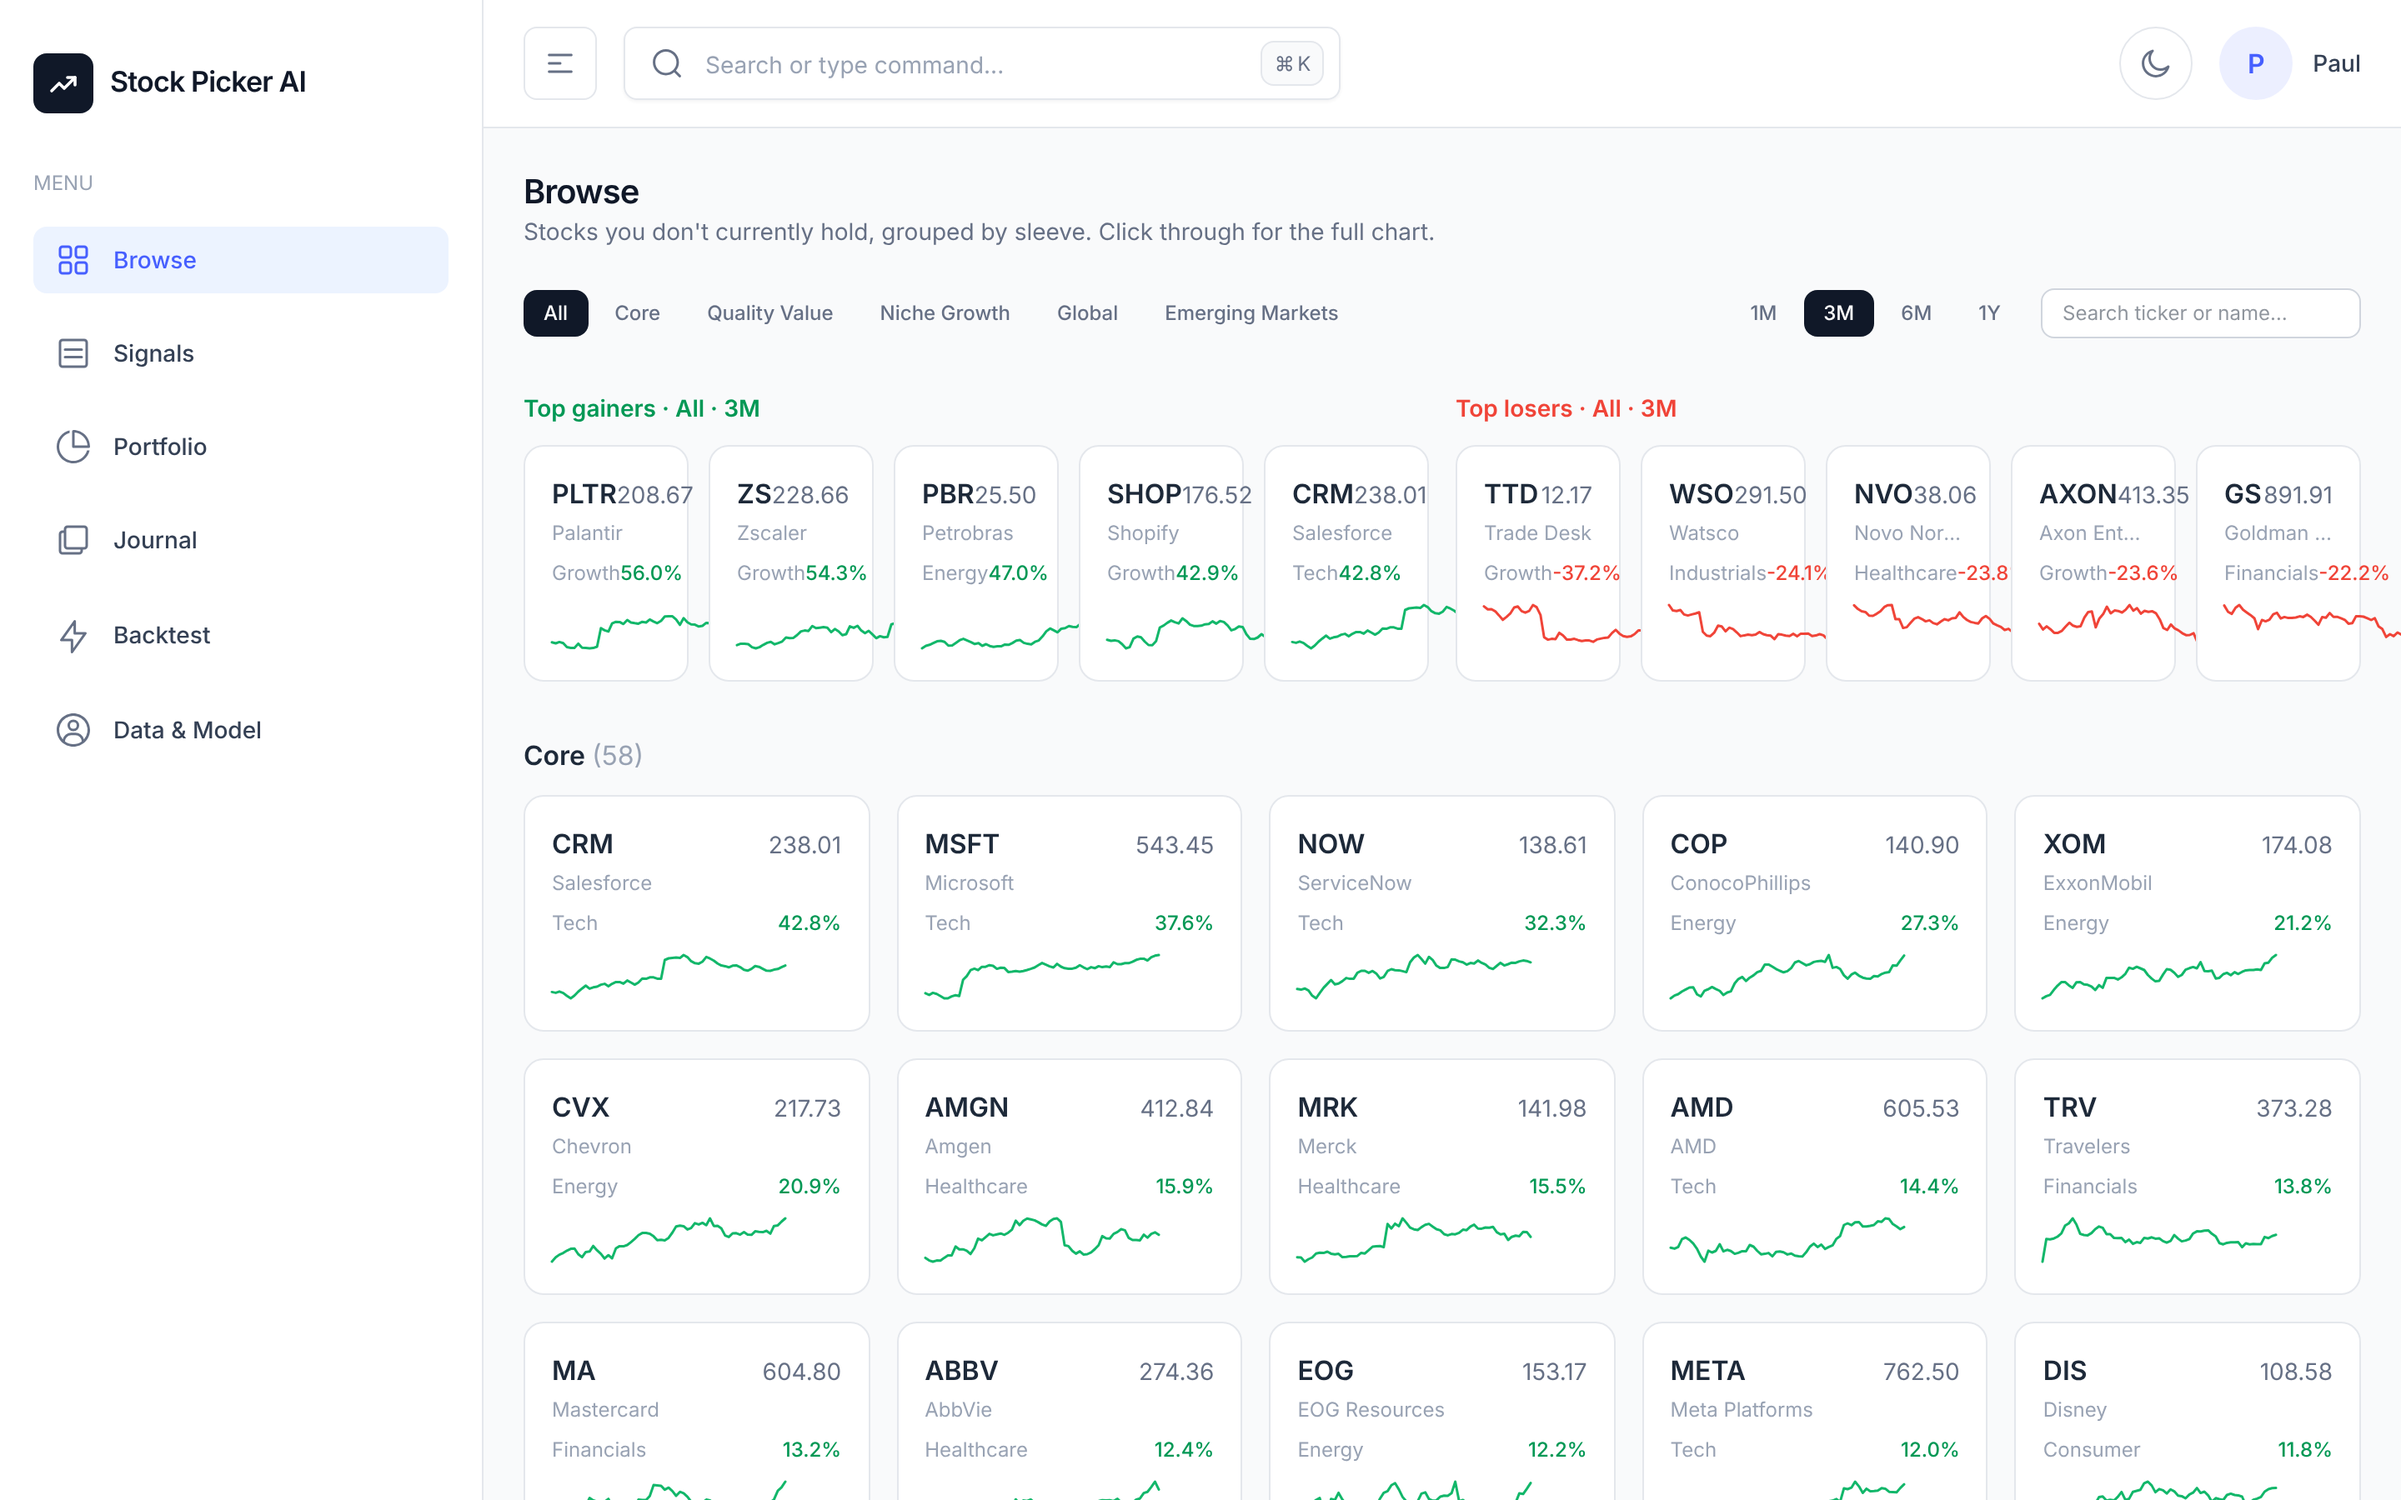
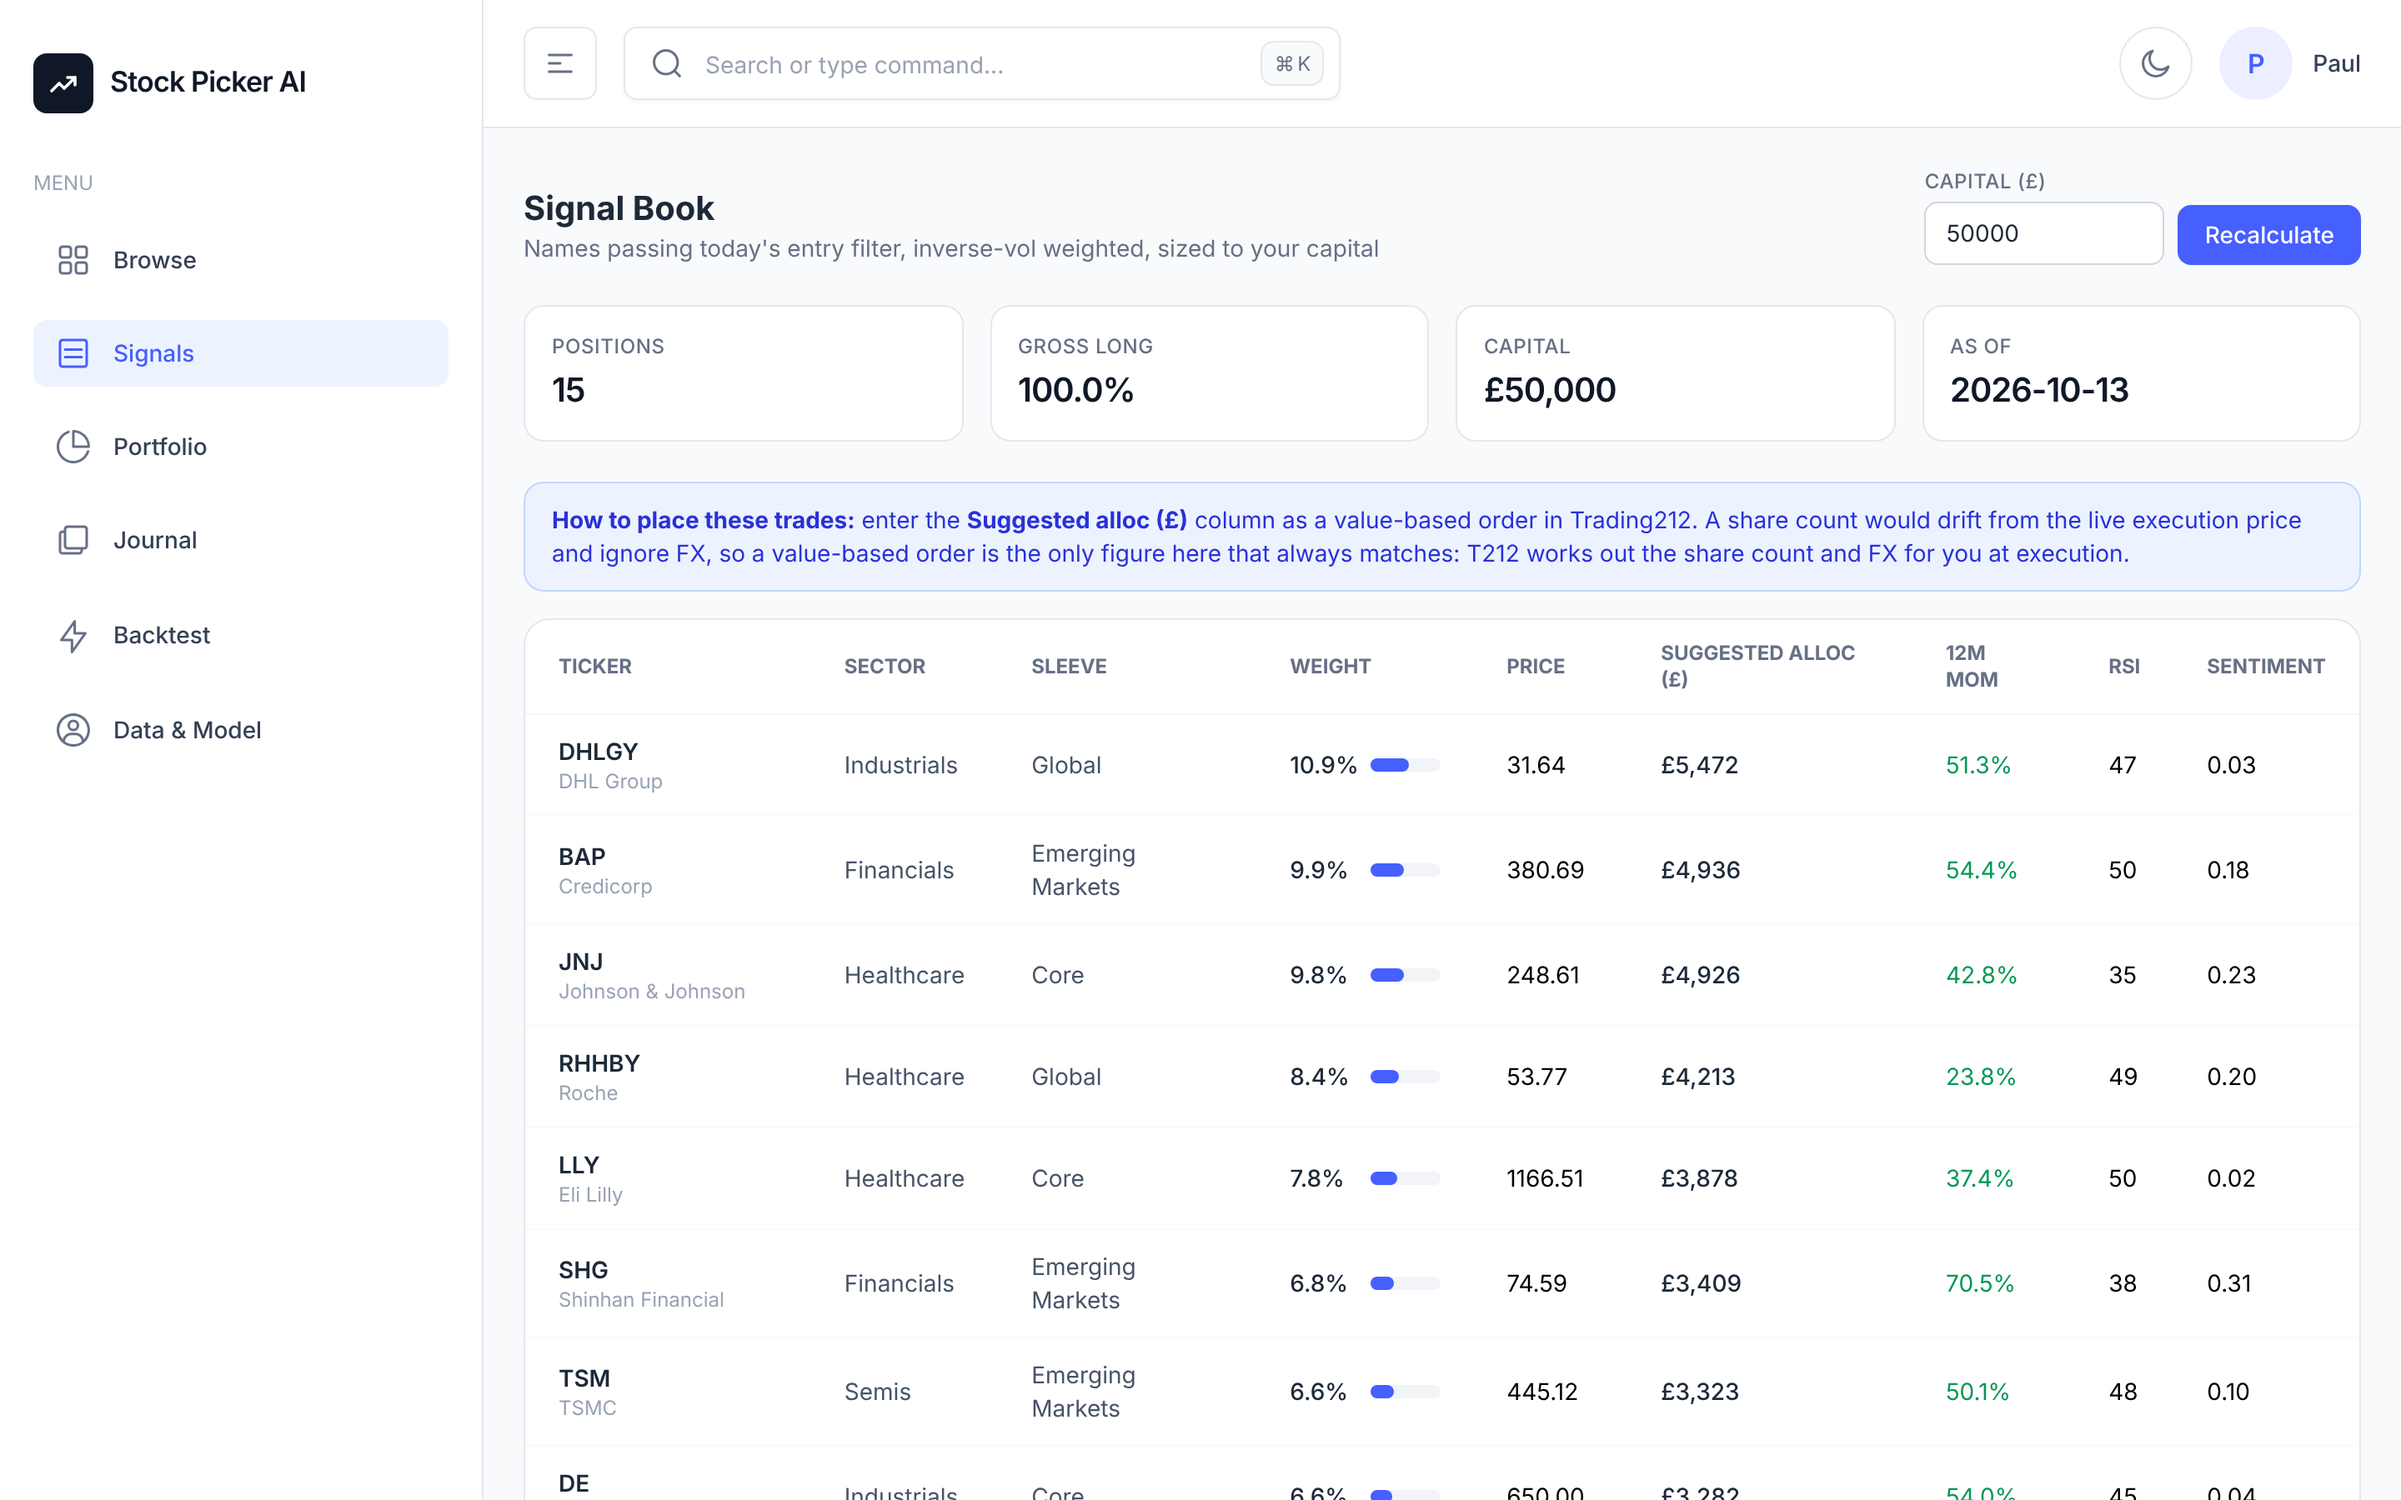
Use the Signals page as the README screenshot
Browse mostly shows prices and 3-month charts, which could be any stock
app. Signals shows what this project actually does: the stocks passing the
entry rule, their inverse-vol weights and the momentum, RSI and sentiment
behind each pick. Real prices as of 2026-10-13.

Claude-Session: https://claude.ai/code/session_01XyA21oPQqhWH4BwdBSBncw

diff --git a/README.md b/README.md
@@ -4,7 +4,7 @@ A research and backtesting tool that finds stocks pulling back inside a strong
 uptrend, scores them 1 to 10, and builds a monthly portfolio from the best.
 It covers 156 global stocks and runs entirely on free data.
 
-![The Browse page: top gainers and losers, then every stock in the universe with its 3-month trend](docs/screenshot.png)
+![The Signals page: the 15 stocks the strategy would hold today, with weights, suggested allocations, momentum, RSI and sentiment](docs/screenshot.png)
 
 > Not investment advice. This is a research tool. The backtest results below
 > are survivorship-biased (see [Limitations](#limitations)).
